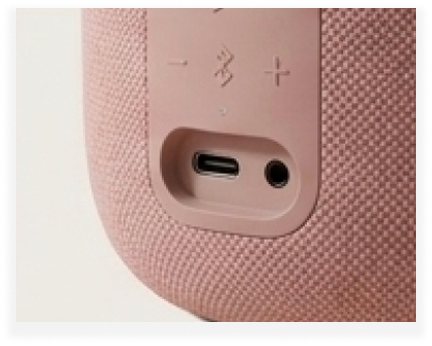
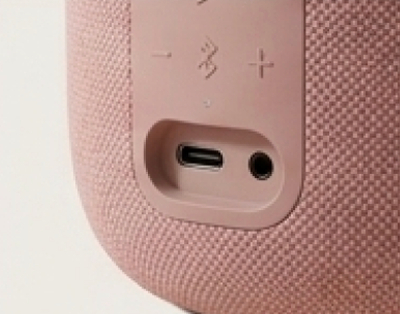
Stylet og færdiggjort produktspecifikation sektion i css
- Forbundet HTML-rækkerne med CSS og opsætter et compound layout (Flexbox + CSS Grid).

- Defineret et 6-kolonne grid på rækkerne for at opnå Figmas asymmetriske billedbredder.

- Tilføjet billedstyling (.details-img) med display: block og object-fit: cover.

- Implementeret border-radius og subtile box-shadows direkte på billederne i CSS.

- Indsat ny billedefiler, fordi de gamle var forkerte

- Rettet en linje i HTML så den linker rigtigt til css

diff --git a/style.css b/style.css
@@ -474,7 +474,178 @@
 
 
 
+/* --- PRODUKT SPECIFIKATIONER SEKTION --- */
 
+/*Hovedcontainer for hele sektionen*/
+#produktspecifikation {
+    padding: 100px 40px;
+    background-color: var(--farve-cta-bg);
+}
+
+/* Containeren der deler skærmen i to (Billeder til venstre, tekst til højre via CSS Grid) */
+.details-container {
+    display: grid;
+    grid-template-columns: 1fr 1fr;
+    gap: 60px;
+    max-width: 1200px;
+    margin: 0 auto;
+    align-items: start;
+}
+
+/* Venstre side af containeren: En lodret Flex-kolonne der stabler billedrækkerne */
+.details-images {
+    display: flex;
+    flex-direction: column;
+    gap: 20px;
+    width: 100%;
+}
+
+/* Fælles grundstyling for alle 5 billeder for at sikre ensartet integration */
+.details-img {
+    display: block;     
+    width: 100%;        
+    height: 100%;       
+    object-fit: cover;  
+    box-shadow: 0 4px 12px rgba(0, 0, 0, 0.05);
+}
+
+/* Øverste række: Bliver til et grid med 6 kolonner */
+.img-row-top {
+    display: grid;
+    grid-template-columns: repeat(6, 1fr);
+    gap: 20px;
+    width: 100%;
+}
+
+/* Nederste række: Bliver også til et grid med 6 kolonner */
+.img-row-bottom {
+    display: grid;
+    grid-template-columns: repeat(6, 1fr);
+    gap: 20px;
+    width: 100%;
+}
+
+
+/* --- Individuelle billede styling--- */
+
+/* Top række: De to store billeder */
+.left-top {
+    grid-column: 1 / 4; 
+    height: 364px; 
+    width: 382px;     
+    border-radius: 20px;
+}
+
+.right-top {
+    grid-column: 4 / 7; 
+    height: 364px;
+    width: 214px;  
+    border-radius: 20px;
+}
+
+/* Bundrække: De tre mindre billeder */
+.left-bottom {
+    grid-column: 1 / 3; 
+    height: 157px;
+    width: 100%;          
+    border-radius: 20px;
+}
+
+.middle-bottom {
+    grid-column: 3 / 5; 
+    height: 157px;
+    width: 100%;          
+    border-radius: 20px; 
+}
+
+.right-bottom {     
+    grid-column: 5 / 7; 
+    height: 157px; 
+    width: 100%;          
+    border-radius: 20px;
+}
+
+/*Højre side af containeren: Tekstindhold og harmonika effekt*/ 
+
+/* Overskrift og introduktion til specifikationslisten */
+.details-header h2 {
+    font-family: 'Prata', serif;
+    font-size: 42px;
+    color: var(--farve-icon);
+    margin-bottom: 20px;
+}
+
+.details-header p {
+    font-family: 'Plus Jakarta Sans', sans-serif;
+    font-size: 16px;
+    color: #666;
+    margin-bottom: 40px;
+    line-height: 1.6;
+}
+
+/* Selve listen og de klikbare paneler (+ -) */
+.spec-item {
+    border-bottom: 1px solid #ccc;
+}
+
+/* Interaktiv knap til at folde specifikationer ud */
+.spec-toggle {
+    display: flex;
+    justify-content: space-between;
+    align-items: center;
+    width: 100%;
+    background: none;
+    border: none;
+    padding: 24px 0;
+    font-family: 'Plus Jakarta Sans', sans-serif;
+    font-weight: 600;
+    font-size: 18px;
+    color: var(--farve-icon);
+    cursor: pointer;
+    text-align: left;
+}
+
+/* Skjuler teksten som standard */
+.spec-panel {
+    max-height: 0;
+    overflow: hidden;
+    transition: max-height 0.3s ease-out; /* Glidende overgang når harmonikaen åbnes */
+    font-family: 'Plus Jakarta Sans', sans-serif;
+    font-size: 15px;
+    color: #666;
+    line-height: 1.6;
+    margin: 0;
+}
+
+/*CSS-klasse der aktiveres via JavaScript ved klik på en specifikation*/
+.spec-item.active .spec-panel {
+    max-height: 250px;
+    padding-bottom: 24px;
+}
+
+/* Det lille plus-tegn roterer og ændres til et kryds, når feltet er aktivt */
+.spec-item.active .icon {
+    transform: rotate(45deg);
+    transition: transform 0.2s ease;
+} 
+
+/* Udforsk-knap placeret centreret i bunden under hele sektionen */
+.details-button-container {
+    text-align: center;
+    margin-top: 60px;
+}
+
+.explore-btn {
+    background-color: #e5e5e5;
+    border: none;
+    padding: 14px 32px;
+    border-radius: 30px;
+    font-family: 'Plus Jakarta Sans', sans-serif;
+    font-size: 12px;
+    font-weight: 600;
+    letter-spacing: 1px;
+    cursor: pointer;
+}
 
 
 

diff --git a/index.html b/index.html
@@ -204,7 +204,7 @@
 
 
 <!-- PRODUKT SPECIFIKATIONER SEKTION -->
- 
+
 <section id="produktspecifikation">
     <div class="details-container">
         
@@ -213,7 +213,7 @@
             
             <!-- Øverste række af billeder -->
             <div class="img-row-top">
-                <img src="img/left-top.png" alt="Lumi højttaler dusty-rose" class="details-img left-top">
+                <img src="img/left-top.png" alt="Lumi højttaler" class="details-img left-top">
                 <img src="img/right-top.png" alt="Lumi hank" class="details-img right-top">
             </div>
 
